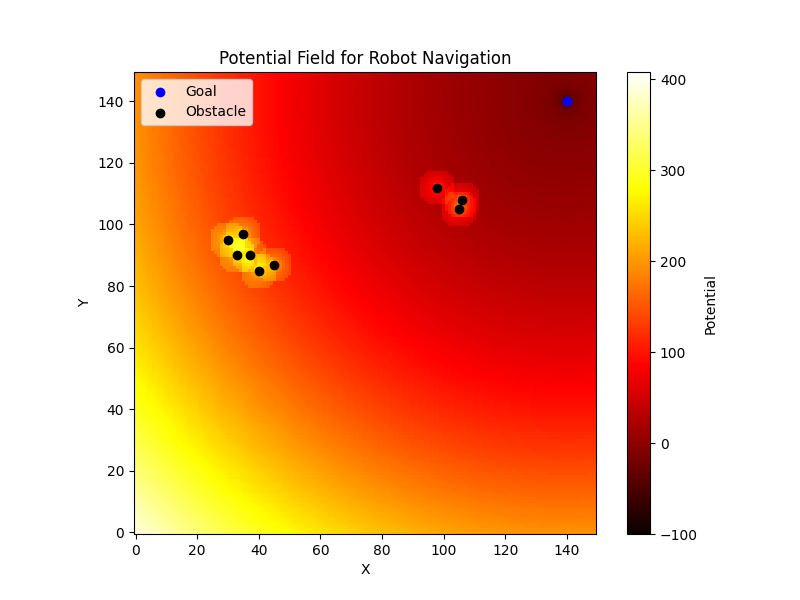
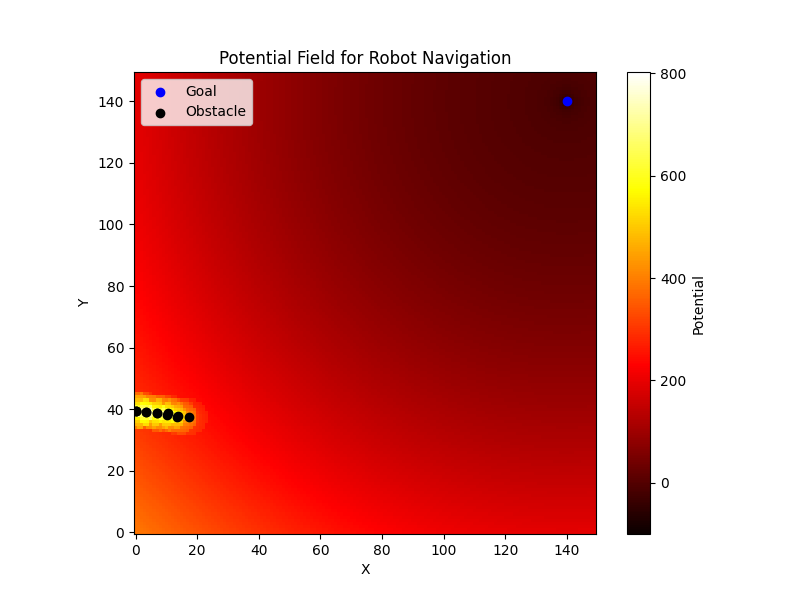
Made some progress on the heatMap

diff --git a/HeatMapCode.py b/HeatMapCode.py
@@ -1,13 +1,30 @@
 import numpy as np
 import matplotlib.pyplot as plt
+import math
+from Scanning import scan
 
-# Define the grid size
-width, height = 150, 150
-heatmap = np.zeros((height, width))
-goal = (140, 140)
-for y in range(height):
-    for x in range(width):
-        heatmap[y, x] =0.01 * ((x-goal[0])**2 + (y-goal[1])**2)
+def polar_to_cartesian(angle, distance):
+    radians = math.radians(angle)
+    '''
+    # Shifting negative numbers 
+    x = distance * math.cos(radians) + width // 2
+    y = distance * math.sin(radians) + height // 2'
+    '''
+    x = distance * math.cos(radians)
+    y = distance * math.sin(radians)
+    return y, x
+
+def scanned_points(scanned_data, goal, width, height):
+    obstacles = []
+    
+    for angle, distance in scanned_data:
+        y, x = polar_to_cartesian(angle, distance)
+        coordinates = (y, x)
+        if coordinates != goal and (0 <= y < width and 0 <= x < height):
+            obstacles.append(coordinates)
+
+    return obstacles 
+
 def add_attractive_potential(grid, goal, strength=100):
     for y in range(grid.shape[0]):
         for x in range(grid.shape[1]):
@@ -15,8 +32,6 @@ def add_attractive_potential(grid, goal, strength=100):
             grid[y, x] -= strength / (dist + 1)  # Avoid division by zero
     return grid
 
-# Define repulsive potential (obstacles)
-obstacles = [(95,30),(90,33),(97,35),(90,37),(85,40),(87,45),(105,105),(108,106),(112,98)]
 def add_repulsive_potentials(grid, obstacles, strength=200, radius=6):
     for oy, ox in obstacles:
         for y in range(grid.shape[0]):
@@ -26,23 +41,41 @@ def add_repulsive_potentials(grid, obstacles, strength=200, radius=6):
                     grid[y, x] += strength * (1 / (dist + 1))
     return grid
 
-# Apply potentials
-heatmap = add_attractive_potential(heatmap, goal)
-heatmap = add_repulsive_potentials(heatmap, obstacles)
+def generate_heatmap():
+    # Define the grid size
+    width, height = 150, 150
+    heatmap = np.zeros((height, width))
+    goal = (140, 140)
+    
+    # Compute initial potential field
+    for y in range(height):
+        for x in range(width):
+            heatmap[y, x] =0.01 * ((x-goal[0])**2 + (y-goal[1])**2)
 
-# Plot the heatmap
-plt.figure(figsize=(8, 6))
-plt.imshow(heatmap, origin='lower', cmap='hot', interpolation='nearest')
-plt.colorbar(label='Potential')
-plt.scatter(goal[0], goal[1], c='blue', label='Goal')
-for ox, oy in obstacles:
-    plt.scatter(oy, ox, c='black', label='Obstacle' if (ox, oy) == obstacles[0] else "")
-plt.legend()
-plt.title("Potential Field for Robot Navigation")
-plt.xlabel("X")
-plt.ylabel("Y")
-plt.grid(False)
-plot_path = "heatMap.png"
-plt.savefig(plot_path)
-print(f"Plot saved as {plot_path}")
-plt.show()
+    # Scan for obstacles
+    data = scan()
+    obstacles = scanned_points(data, goal, width, height)
+    if not obstacles:
+        print("No obstacles found")
+        return
+
+    # Apply potentials
+    heatmap = add_attractive_potential(heatmap, goal)
+    heatmap = add_repulsive_potentials(heatmap, obstacles)
+
+    # Plot the heatmap
+    plt.figure(figsize=(8, 6))
+    plt.imshow(heatmap, origin='lower', cmap='hot', interpolation='nearest')
+    plt.colorbar(label='Potential')
+    plt.scatter(goal[0], goal[1], c='blue', label='Goal')
+    for oy, ox in obstacles:
+        plt.scatter(ox, oy, c='black', label='Obstacle' if (oy, ox) == obstacles[0] else "")
+    plt.legend()
+    plt.title("Potential Field for Robot Navigation")
+    plt.xlabel("X")
+    plt.ylabel("Y")
+    plt.grid(False)
+    plot_path = "heatMap.png"
+    plt.savefig(plot_path)
+    print(f"Plot saved as {plot_path}")
+    plt.show()

diff --git a/OriginalHeatMapCode.py b/OriginalHeatMapCode.py
@@ -1,0 +1,48 @@
+import numpy as np
+import matplotlib.pyplot as plt
+
+# Define the grid size
+width, height = 150, 150
+heatmap = np.zeros((height, width))
+goal = (140, 140)
+for y in range(height):
+    for x in range(width):
+        heatmap[y, x] =0.01 * ((x-goal[0])**2 + (y-goal[1])**2)
+def add_attractive_potential(grid, goal, strength=100):
+    for y in range(grid.shape[0]):
+        for x in range(grid.shape[1]):
+            dist = np.hypot(goal[0] - x, goal[1] - y)
+            grid[y, x] -= strength / (dist + 1)  # Avoid division by zero
+    return grid
+
+# Define repulsive potential (obstacles)
+obstacles = [(95,30),(90,33),(97,35),(90,37),(85,40),(87,45),(105,105),(108,106),(112,98)]
+def add_repulsive_potentials(grid, obstacles, strength=200, radius=6):
+    for oy, ox in obstacles:
+        for y in range(grid.shape[0]):
+            for x in range(grid.shape[1]):
+                dist = np.hypot(ox - x, oy - y)
+                if dist < radius:
+                    grid[y, x] += strength * (1 / (dist + 1))
+    return grid
+
+# Apply potentials
+heatmap = add_attractive_potential(heatmap, goal)
+heatmap = add_repulsive_potentials(heatmap, obstacles)
+
+# Plot the heatmap
+plt.figure(figsize=(8, 6))
+plt.imshow(heatmap, origin='lower', cmap='hot', interpolation='nearest')
+plt.colorbar(label='Potential')
+plt.scatter(goal[0], goal[1], c='blue', label='Goal')
+for ox, oy in obstacles:
+    plt.scatter(oy, ox, c='black', label='Obstacle' if (ox, oy) == obstacles[0] else "")
+plt.legend()
+plt.title("Potential Field for Robot Navigation")
+plt.xlabel("X")
+plt.ylabel("Y")
+plt.grid(False)
+plot_path = "OriginalheatMap.png"
+plt.savefig(plot_path)
+print(f"Plot saved as {plot_path}")
+plt.show()

diff --git a/Scanning.py b/Scanning.py
@@ -31,6 +31,9 @@ def get_distance(samples):
 
 def real_data(scan_data):
     distances = [dist[1] for dist in scan_data]
+
+    if not distances:
+        return []
     
     mean = statistics.mean(distances)
     standard_deviation = statistics.stdev(distances)
@@ -59,7 +62,7 @@ def scan():
             # Start at current position
             servo0.angle = start_angle
             distance = get_distance(10)
-            if distance < 40: #Range limit
+            if distance < 50: #Range limit
                 scan_data.append((start_angle, distance))
             print(f"{start_angle} degrees: {distance:.2f} cm")
             sleep(0.1) # Small delay for stability
@@ -68,7 +71,7 @@ def scan():
                 for angle in angle_list:
                     servo0.angle = angle
                     distance = get_distance(10)
-                    if distance < 40: # Range limit
+                    if distance < 50: # Range limit
                         scan_data.append((angle, distance))
                     print(f"{angle} degrees: {distance:.2f} cm")
                     sleep(0.1) # Small delay for stability
@@ -83,7 +86,5 @@ def scan():
         pca.deinit()
         sensor.close()
         filtered_real_data = real_data(scan_data)
-        if not filtered_real_data:
-            return "No obstacles found"
         return filtered_real_data
         

diff --git a/Project03.py b/Project03.py
@@ -1,10 +1,6 @@
-from Scanning import scan
-from ScanVisualization import plot_scan
+from HeatMapCode import generate_heatmap 
 
 if __name__ == "__main__":
     print("Program is starting...")
-    data = scan()
-    if data:
-        plot_scan(data)
-    else:
-        print("No data found")
+    generate_heatmap()
+    
